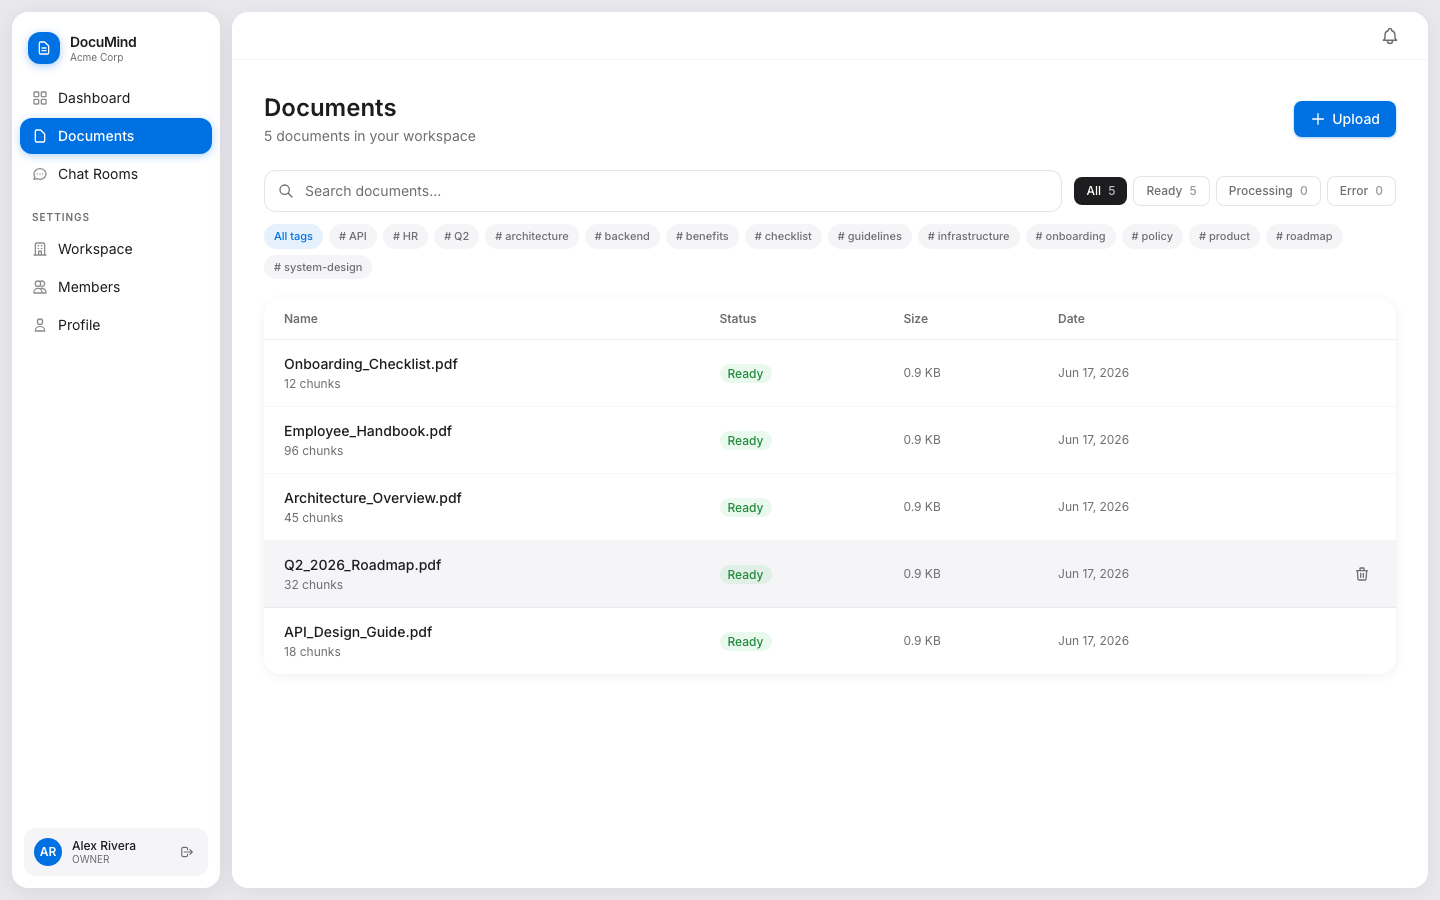
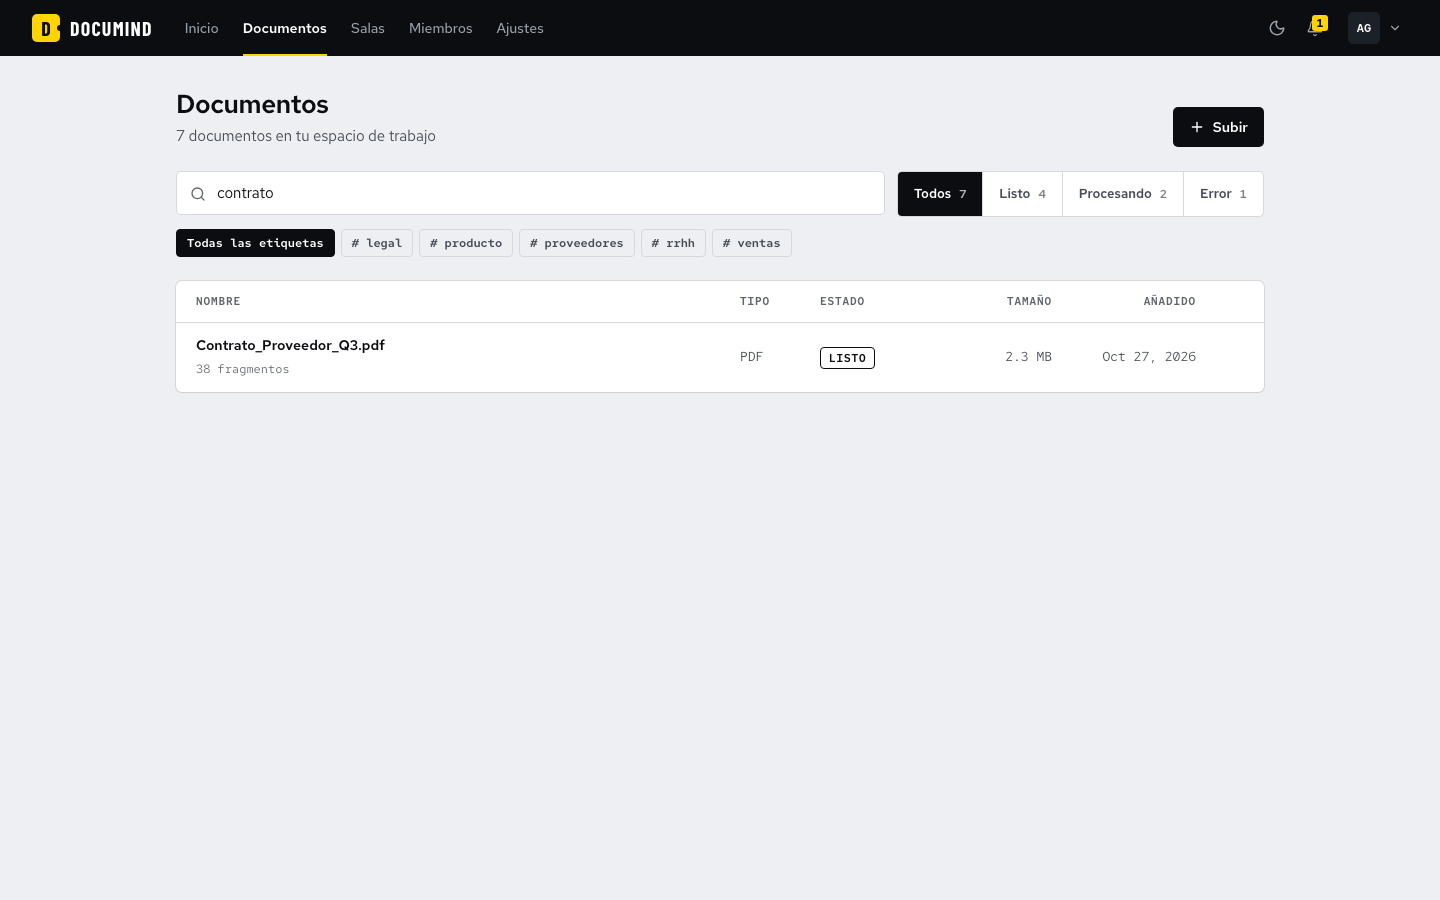
Actualiza DocuMind: interfaz nueva, marca propia y correcciones
- Capturas rehechas con la interfaz nueva en español (banda de salidas,
  chat con fuentes, documentos, miembros y panel admin) y tres nuevas:
  ficha de documento, inicio y sala en modo oscuro.
- El título de la ficha usa la marca de DocuMind tal y como sale en la
  cabecera de la app (placa amarilla con la D y Barlow Condensed).
- Ficha actualizada: resumen, nueva pestaña de Diseño (sistema visual e
  i18n), stack con TypeScript y Playwright, enlace al repo correcto.
- Corrige afirmaciones falsas: los chunks son de 800 caracteres con 80 de
  solapamiento (no 500 tokens), los embeddings pueden ser de OpenAI o
  Voyage, y el admin muestra jobs de Celery (no logs por estado HTTP).

diff --git a/lib/projects.ts b/lib/projects.ts
@@ -58,83 +58,98 @@ export const PROJECTS: Project[] = [
     name: "DocuMind",
     badge: "SaaS con IA y microservicios",
     summary:
-      "Plataforma SaaS de análisis de documentos con IA. Los usuarios suben documentos, los interrogan mediante chat con RAG (LangChain + MongoDB vectorSearch) y colaboran en tiempo real dentro de un workspace multi-tenant. Microservicio de notificaciones en Node.js, panel admin en Angular 17 y procesamiento async con Celery.",
+      "Plataforma SaaS multi-tenant para preguntar a los documentos de un equipo. Cada respuesta del chat RAG (LangChain + MongoDB vectorSearch) cita los pasajes exactos de los que sale, en salas colaborativas en tiempo real. Interfaz propia inspirada en las tarjetas de embarque, en español e inglés y con modo claro y oscuro. Microservicio de notificaciones en Node.js, panel admin en Angular 17 y procesamiento async con Celery.",
     tint: "violet",
-    stack: ["Python", "IA / RAG", "Angular", "Node.js", "Docker", "JWT / OAuth"],
+    stack: ["Python", "IA / RAG", "TypeScript", "Angular", "Node.js", "Docker", "JWT / OAuth", "Playwright"],
     device: "desktop",
-    repo: "https://github.com/juaandix/documind",
+    repo: "https://github.com/juaandix/DocuMind",
     screenshots: [
-      { src: "/documind/02_dashboard.png", alt: "Dashboard" },
+      { src: "/documind/02_dashboard.png", alt: "Inicio con la banda de salidas" },
+      { src: "/documind/07c_room_engineering.png", alt: "Chat RAG con fuentes" },
       { src: "/documind/04_documents.png", alt: "Documentos" },
-      { src: "/documind/05_documents_filtered.png", alt: "Filtros" },
-      { src: "/documind/07c_room_engineering.png", alt: "Chat RAG" },
-      { src: "/documind/09_members.png", alt: "Workspace" },
+      { src: "/documind/06_document_detail.png", alt: "Ficha de documento" },
+      { src: "/documind/09_members.png", alt: "Miembros" },
+      { src: "/documind/07d_room_dark.png", alt: "Modo oscuro" },
       { src: "/documind/admin_02_dashboard.png", alt: "Admin Panel" },
+      { src: "/documind/admin_05_logs.png", alt: "Jobs de Celery" },
     ],
     features: [
       {
-        id: "dashboard",
-        label: "Dashboard",
+        id: "processing",
+        label: "Inicio",
         screenshotIndex: 0,
-        heading: "Multi-tenant workspace",
+        heading: "Procesamiento async a la vista",
         description:
-          "Cada empresa tiene su propio workspace aislado. El registro crea usuario + workspace en una sola transacción. JWT con roles por workspace (OWNER / ADMIN / MEMBER) y rol de plataforma PLATFORM_ADMIN.",
+          "Subir un documento nunca bloquea la petición HTTP: Celery extrae el texto, lo trocea, genera los embeddings y los indexa en MongoDB Atlas. El inicio funciona como un panel de salidas: cuando un documento termina, su fila sube en la cola sin desaparecer y se queda en amarillo hasta que lo abres.",
         points: [
-          "Aislamiento por workspace_id en todos los queries",
-          "JWT access (60 min) + refresh (30 días)",
-          "Roles: OWNER · ADMIN · MEMBER · PLATFORM_ADMIN",
-        ],
-      },
-      {
-        id: "documents",
-        label: "Documentos",
-        screenshotIndex: 1,
-        heading: "Pipeline RAG con Celery",
-        description:
-          "Subida con drag & drop y barra de progreso real. El procesamiento es completamente async: Celery extrae texto, chunkea (~500 tokens, overlap 50), genera embeddings y los indexa en MongoDB Atlas vectorSearch.",
-        points: [
-          "Chunking 500 tokens con overlap de 50",
-          "Embeddings OpenAI text-embedding-3-small (1536 dims)",
-          "Polling UPLOADING → PROCESSING → READY / ERROR",
+          "UPLOADING → PROCESSING → READY / ERROR",
+          "Chunks de 800 caracteres con solapamiento de 80",
+          "Embeddings OpenAI text-embedding-3-small o Voyage voyage-3",
         ],
       },
       {
         id: "rag",
         label: "Chat RAG",
-        screenshotIndex: 3,
-        heading: "Respuestas en streaming con fuentes",
+        screenshotIndex: 1,
+        heading: "Respuestas con fuentes comprobables",
         description:
-          "El pipeline busca los K chunks más similares por coseno filtrados por workspace y documentos de la sala, los inyecta como contexto en el LLM y emite la respuesta token a token por WebSocket. Cada mensaje cita los fragmentos fuente con su score.",
+          "El pipeline busca los 5 fragmentos más cercanos con $vectorSearch, filtrados por workspace y por los documentos de la sala, y los pasa como contexto al LLM. La respuesta llega token a token por WebSocket y termina con S1, S2, S3: cada una abre su fuente con documento, página, extracto y similitud.",
         points: [
-          "vectorSearch MongoDB Atlas + filtro por workspace",
+          "$vectorSearch filtrado por workspace_id",
           "Streaming token a token por WebSocket",
-          "Fuentes citadas con score de similitud",
+          "Cada cita enlaza a su pasaje con su similitud",
+        ],
+      },
+      {
+        id: "documents",
+        label: "Documentos",
+        screenshotIndex: 2,
+        heading: "PDF, DOCX, CSV y TXT",
+        description:
+          "Subida con arrastrar y soltar y progreso real. Búsqueda global con ⌘K, filtros por estado y etiquetas, y una ficha por documento con páginas, fragmentos y etiquetas editables que se actualiza sola mientras se procesa.",
+        points: [
+          "Progreso real de subida con Axios",
+          "Filtros por estado y por etiqueta",
+          "Búsqueda global con ⌘K",
         ],
       },
       {
         id: "workspace",
         label: "Workspace",
         screenshotIndex: 4,
-        heading: "Colaboración y notificaciones",
+        heading: "Multi-tenant y colaboración",
         description:
-          "Invitación de miembros por token de un solo uso (7 días). Notificaciones en tiempo real: FastAPI publica en Redis pub/sub → Node.js consume → broadcast por WebSocket. Emails HTML de invitación con Nodemailer.",
+          "Cada empresa tiene su workspace aislado: todas las consultas filtran por workspace_id. Las invitaciones usan un token de un solo uso válido 7 días. FastAPI publica los eventos en Redis y el microservicio Node.js los convierte en notificaciones en la app y en emails HTML.",
         points: [
-          "Invitación por token de un solo uso (7 días)",
-          "Redis pub/sub como bus de eventos entre servicios",
-          "Centro de notificaciones con badge de no leídas",
+          "Roles OWNER · ADMIN · MEMBER · PLATFORM_ADMIN",
+          "JWT de acceso (60 min) y de refresco (30 días)",
+          "Redis pub/sub entre FastAPI y Node.js",
+        ],
+      },
+      {
+        id: "design",
+        label: "Diseño",
+        screenshotIndex: 5,
+        heading: "Sistema visual propio y bilingüe",
+        description:
+          "La interfaz trata los documentos como documentos de viaje: tinta, un único amarillo para lo que acaba de cambiar y cada cita como una tarjeta de embarque segmentada. Tokens de Tailwind CSS 4 con modo claro y oscuro, interfaz en español e inglés con vue-i18n, y el mismo sistema aplicado al panel Angular.",
+        points: [
+          "Los mismos tokens en Vue y en Angular Material",
+          "Español e inglés, con un test que compila cada mensaje",
+          "Capturas automáticas con Playwright en claro y oscuro",
         ],
       },
       {
         id: "admin",
         label: "Admin Panel",
-        screenshotIndex: 5,
+        screenshotIndex: 6,
         heading: "Panel Angular con NgRx",
         description:
-          "Panel independiente en Angular 17 con Standalone Components y NgRx. Métricas globales de la plataforma, gráfico de actividad de 7 días, listado de usuarios con última conexión y logs de auditoría filtrable por estado HTTP.",
+          "Panel independiente en Angular 17 con Standalone Components y NgRx para los administradores de la plataforma: métricas globales, actividad de los últimos 7 días, gestión de workspaces y usuarios, cola de notificaciones y los jobs de Celery filtrables por estado.",
         points: [
-          "NgRx store / effects / selectors para estado global",
-          "Chart.js: bar chart + doughnut de distribución",
-          "Logs de auditoría con filtro por HTTP status",
+          "NgRx store / effects / selectors",
+          "Chart.js cargado solo en la ruta del dashboard",
+          "Jobs de Celery filtrables por estado",
         ],
       },
     ],
@@ -144,13 +159,15 @@ export const PROJECTS: Project[] = [
       "LangChain",
       "MongoDB Atlas",
       "Vue.js 3",
+      "Tailwind CSS 4",
+      "i18n",
       "Angular 17",
       "Node.js",
       "Celery",
       "Redis",
       "WebSocket",
       "Docker",
-      "JWT",
+      "Playwright",
     ],
   },
   {

diff --git a/components/ui/ProjectName.tsx b/components/ui/ProjectName.tsx
@@ -1,10 +1,13 @@
-import { Archivo } from "next/font/google";
+import { Archivo, Barlow_Condensed } from "next/font/google";
 
 // La marca de KicksControl tal y como sale en la cabecera de la tienda
 const archivo = Archivo({ subsets: ["latin"], weight: "800", display: "swap" });
+// La marca de DocuMind tal y como sale en la cabecera de la app
+const barlow = Barlow_Condensed({ subsets: ["latin"], weight: "700", display: "swap" });
 
-/** El nombre del proyecto en su ficha; KicksControl usa su propio logotipo. */
+/** El nombre del proyecto en su ficha; KicksControl y DocuMind usan su propio logotipo. */
 export function ProjectName({ id, name }: { id: string; name: string }) {
+  if (id === "documind") return <DocuMindMark name={name} />;
   if (id !== "kickscontrol") return <>{name}</>;
   // El bloque toma el ancho de la columna; la marca se encoge para caber, nunca por encima del título
   return (
@@ -23,6 +26,33 @@ export function ProjectName({ id, name }: { id: string; name: string }) {
       </svg>
       <span aria-hidden>KICKSCONTROL</span>
     </span>
+    </span>
+  );
+}
+
+/** Placa amarilla con la D y la muesca del talón, seguida del nombre en Barlow Condensed. */
+function DocuMindMark({ name }: { name: string }) {
+  return (
+    <span className="block [container-type:inline-size]">
+      <span
+        className={`${barlow.className} inline-flex items-center gap-[0.28em] font-bold uppercase leading-none tracking-[0.04em]`}
+        style={{ fontSize: "min(1em, 12cqw)" }}
+        aria-label={name}
+      >
+        <svg viewBox="0 0 30 30" className="h-[0.9em] w-auto shrink-0" aria-hidden>
+          <defs>
+            <mask id="documind-notch">
+              <rect width="30" height="30" fill="white" />
+              <circle cx="30" cy="15" r="3.2" fill="black" />
+            </mask>
+          </defs>
+          <rect width="30" height="30" rx="5" fill="#FFD400" mask="url(#documind-notch)" />
+          <text x="14.2" y="22.6" textAnchor="middle" fontSize="21" fontWeight="700" fill="#0B0D10" className={barlow.className}>
+            D
+          </text>
+        </svg>
+        <span aria-hidden>DOCUMIND</span>
+      </span>
     </span>
   );
 }
